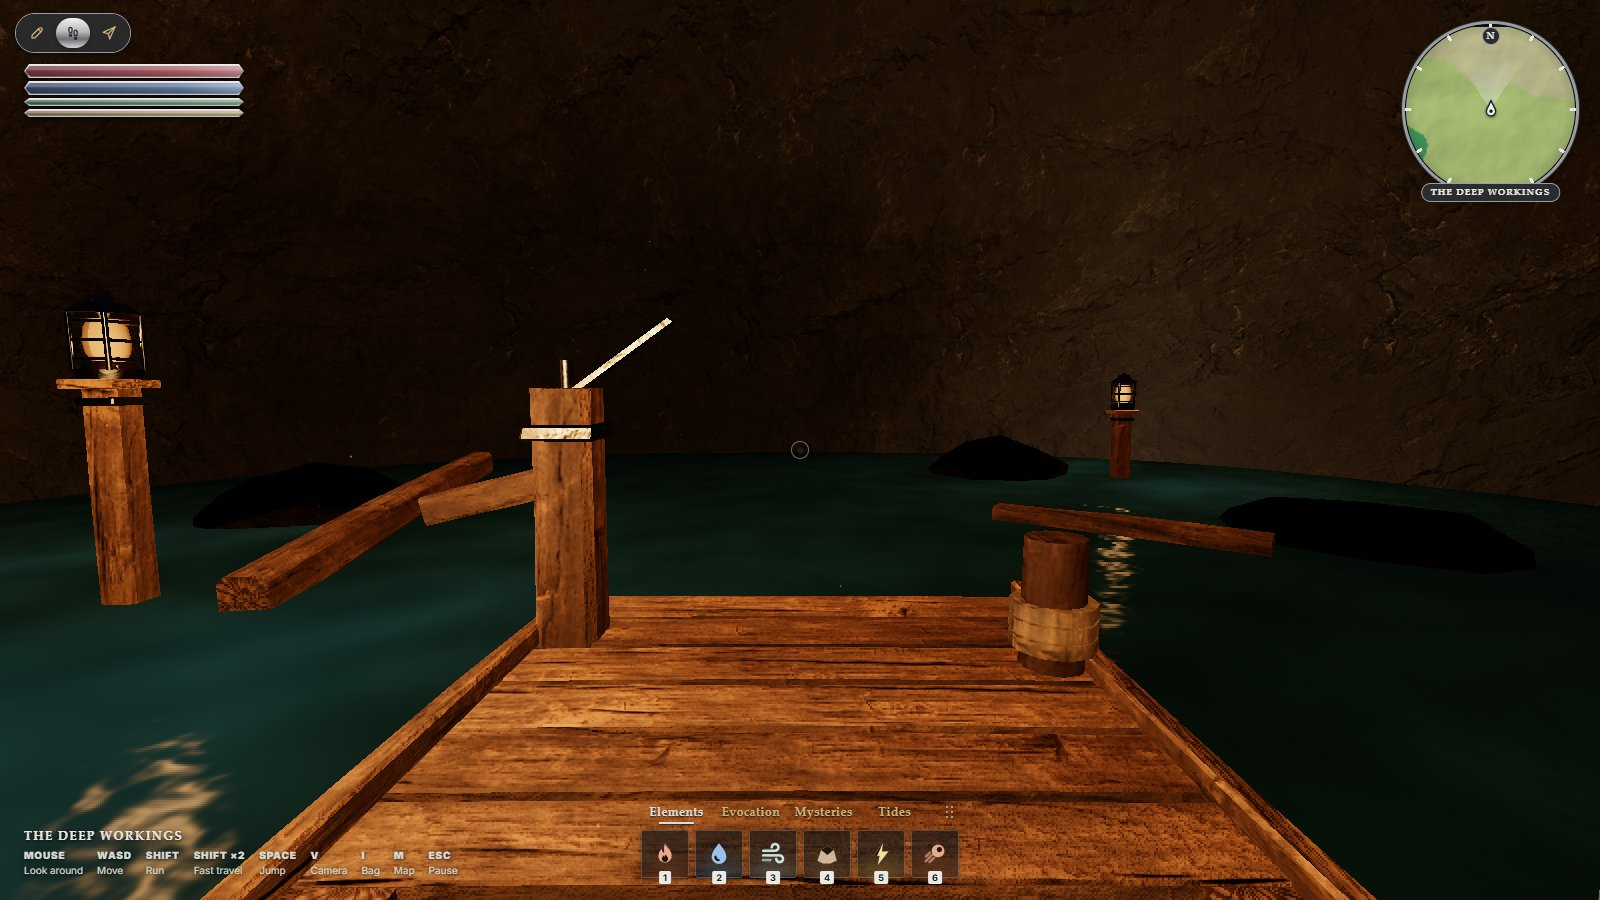
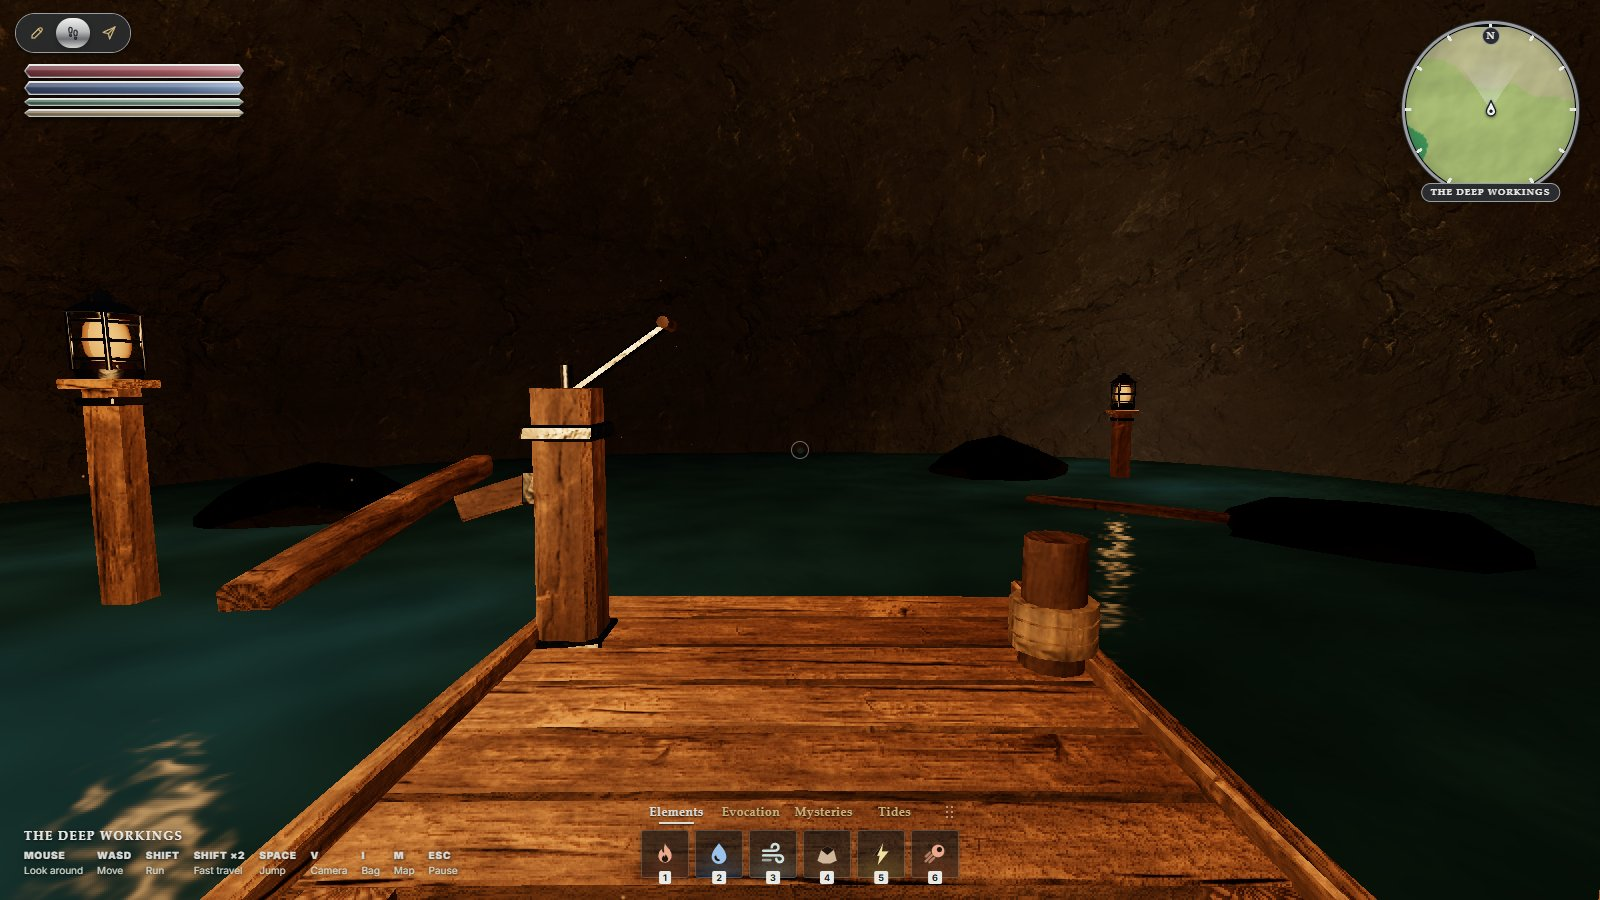
Fix flooded pier bilge pump, driftwood grounding, and refresh mine screenshots

diff --git a/src/editor/locations/generators/mineCampAndDressing.js b/src/editor/locations/generators/mineCampAndDressing.js
@@ -228,17 +228,20 @@ export function buildMinerCamp(b, center, floorY, { lightSection = 'hub' } = {})
 /** Hand-cranked wooden bilge pump & spout on the flooded pier edge, plus mooring bollard. */
 export function buildFloodedPierDressing(b, waterY) {
   const pierY = waterY + 0.18;
-  // Wooden bilge pump box column on left-front pier corner.
+  // Wooden bilge pump box column on left-front pier corner, with iron base collar, spout flange, and hand lever.
   const px = -0.92, pz = -83.15;
   b.prop('timber', createTimberBeam(P(px, pierY - 0.4, pz), P(px, pierY + 1.05, pz), 0.24, 0.24, {
     sideHint: P(1, 0, 0), bevelRatio: 0.15, dampStart: 0.7, dampEnd: 0.3, wear: 0.55,
   }), 0x866848);
-  b.prop('iron', stoneBox(0.28, 0.06, 0.28, P(px, pierY + 0.88, pz), { bevel: 0.01 }), 0x767d88);
-  b.prop('timber', createTimberBeam(P(px - 0.08, pierY + 0.68, pz), P(px - 0.58, pierY + 0.56, pz), 0.12, 0.09, {
-    sideHint: UP_DIR, bevelRatio: 0.14, dampStart: 0.5, dampEnd: 0.7,
-  }), 0x7e6143);
-  b.prop('iron', hewnBeam(P(px, pierY + 1.02, pz), P(px + 0.42, pierY + 1.32, pz), 0.04, 0.04, { bevel: 0.008 }), 0x848b97);
-  b.prop('iron', rod(P(px, pierY + 0.96, pz), P(px, pierY + 1.16, pz), 0.025, 0.025, 6), 0x7e8591);
+  b.prop('iron', stoneBox(0.28, 0.05, 0.28, P(px, pierY + 0.04, pz), { bevel: 0.01 }), 0x4c525b);
+  b.prop('iron', stoneBox(0.28, 0.06, 0.28, P(px, pierY + 0.88, pz), { bevel: 0.01 }), 0x4c525b);
+  b.prop('timber', createTimberBeam(P(px - 0.08, pierY + 0.68, pz), P(px - 0.44, pierY + 0.57, pz), 0.11, 0.08, {
+    sideHint: UP_DIR, bevelRatio: 0.14, dampStart: 0.55, dampEnd: 0.75,
+  }), 0x7a5e41);
+  b.prop('iron', stoneBox(0.06, 0.14, 0.14, P(px - 0.14, pierY + 0.66, pz), { bevel: 0.008 }), 0x4c525b);
+  b.prop('iron', hewnBeam(P(px, pierY + 1.02, pz), P(px + 0.40, pierY + 1.30, pz), 0.038, 0.036, { bevel: 0.008 }), 0x505660);
+  b.prop('iron', rod(P(px, pierY + 0.96, pz), P(px, pierY + 1.14, pz), 0.025, 0.025, 6), 0x4c525b);
+  b.prop('timber', rod(P(px + 0.40, pierY + 1.30, pz - 0.09), P(px + 0.40, pierY + 1.30, pz + 0.09), 0.024, 0.024, 8), 0x8b6c4a);
 
   // Mooring bollard + coiled rope + supply crate on right pier edge.
   b.prop('timber', rod(P(0.92, pierY, -82.85), P(0.92, pierY + 0.52, -82.85), 0.12, 0.11, 10), 0x846545);

diff --git a/src/editor/locations/generators/mineWorkingsDetail.js b/src/editor/locations/generators/mineWorkingsDetail.js
@@ -582,12 +582,12 @@ export function buildFloodedLevel(b, inclineTop, flooded, waterY, inclineShape =
     importance: 1.3,
     section: 'flooded',
   });
-  b.prop('timber', createTimberBeam(P(-3, waterY + 0.08, -84), P(-3.6, waterY + 0.35, -88), 0.26, 0.24, {
-    sideHint: UP_DIR, bevelRatio: 0.16, irregular: 0.28, bow: 0.02, taper: 0.1, dampStart: 0.8, dampEnd: 0.55, wear: 0.6,
+  b.prop('timber', createTimberBeam(P(-3, waterY + 0.04, -84), P(-3.6, waterY + 0.32, -88), 0.26, 0.24, {
+    sideHint: UP_DIR, bevelRatio: 0.16, irregular: 0.28, bow: 0.02, taper: 0.1, dampStart: 0.85, dampEnd: 0.55, wear: 0.6,
   }), 0x826546);
-  b.prop('timber', createTimberBeam(P(1.8, waterY + 0.04, -86.5), P(3.4, waterY + 0.06, -85.2), 0.22, 0.2, {
-    sideHint: UP_DIR, bevelRatio: 0.16, irregular: 0.25, bow: 0.015, dampStart: 0.8, dampEnd: 0.8, wear: 0.55,
-  }), 0x86694a);
+  b.prop('timber', createTimberBeam(P(2.4, waterY - 0.03, -87.4), P(4.1, waterY - 0.01, -86.0), 0.22, 0.2, {
+    sideHint: UP_DIR, bevelRatio: 0.16, irregular: 0.25, bow: 0.015, dampStart: 0.95, dampEnd: 0.95, wear: 0.55,
+  }), 0x765c40);
 
   // Far-side submerged piling post & rocky left-bank timber post lamps (no fake flat pool fill).
   buildGroundedLanternPost(b, 4.2, -89.2, {
